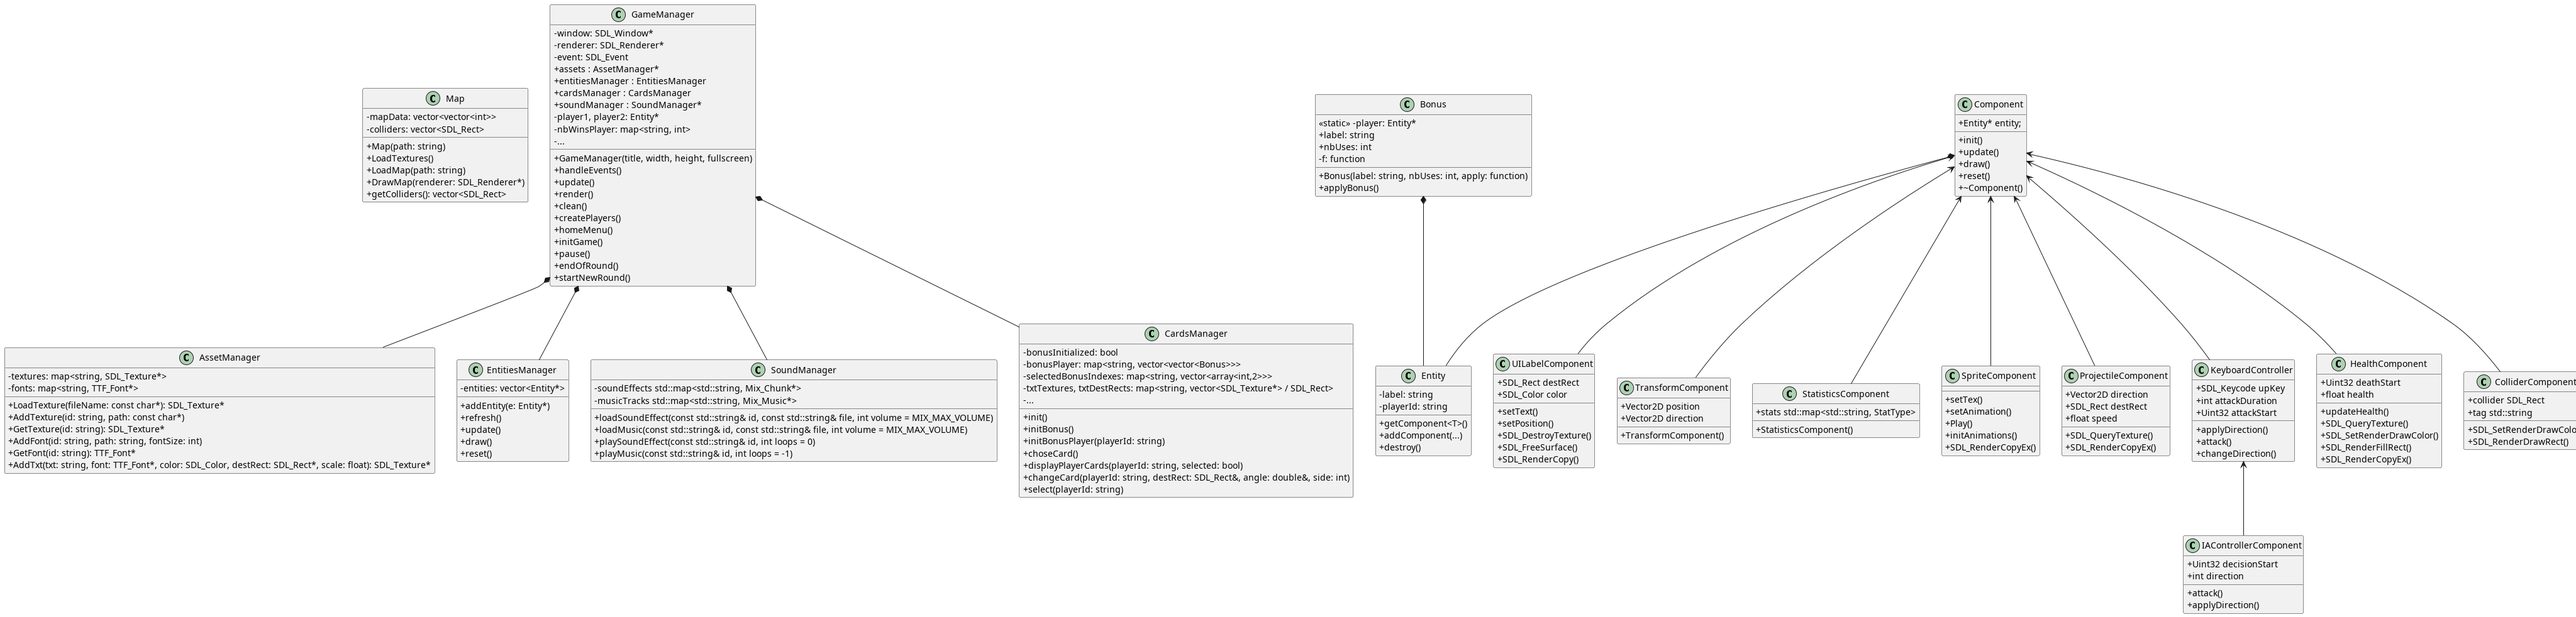
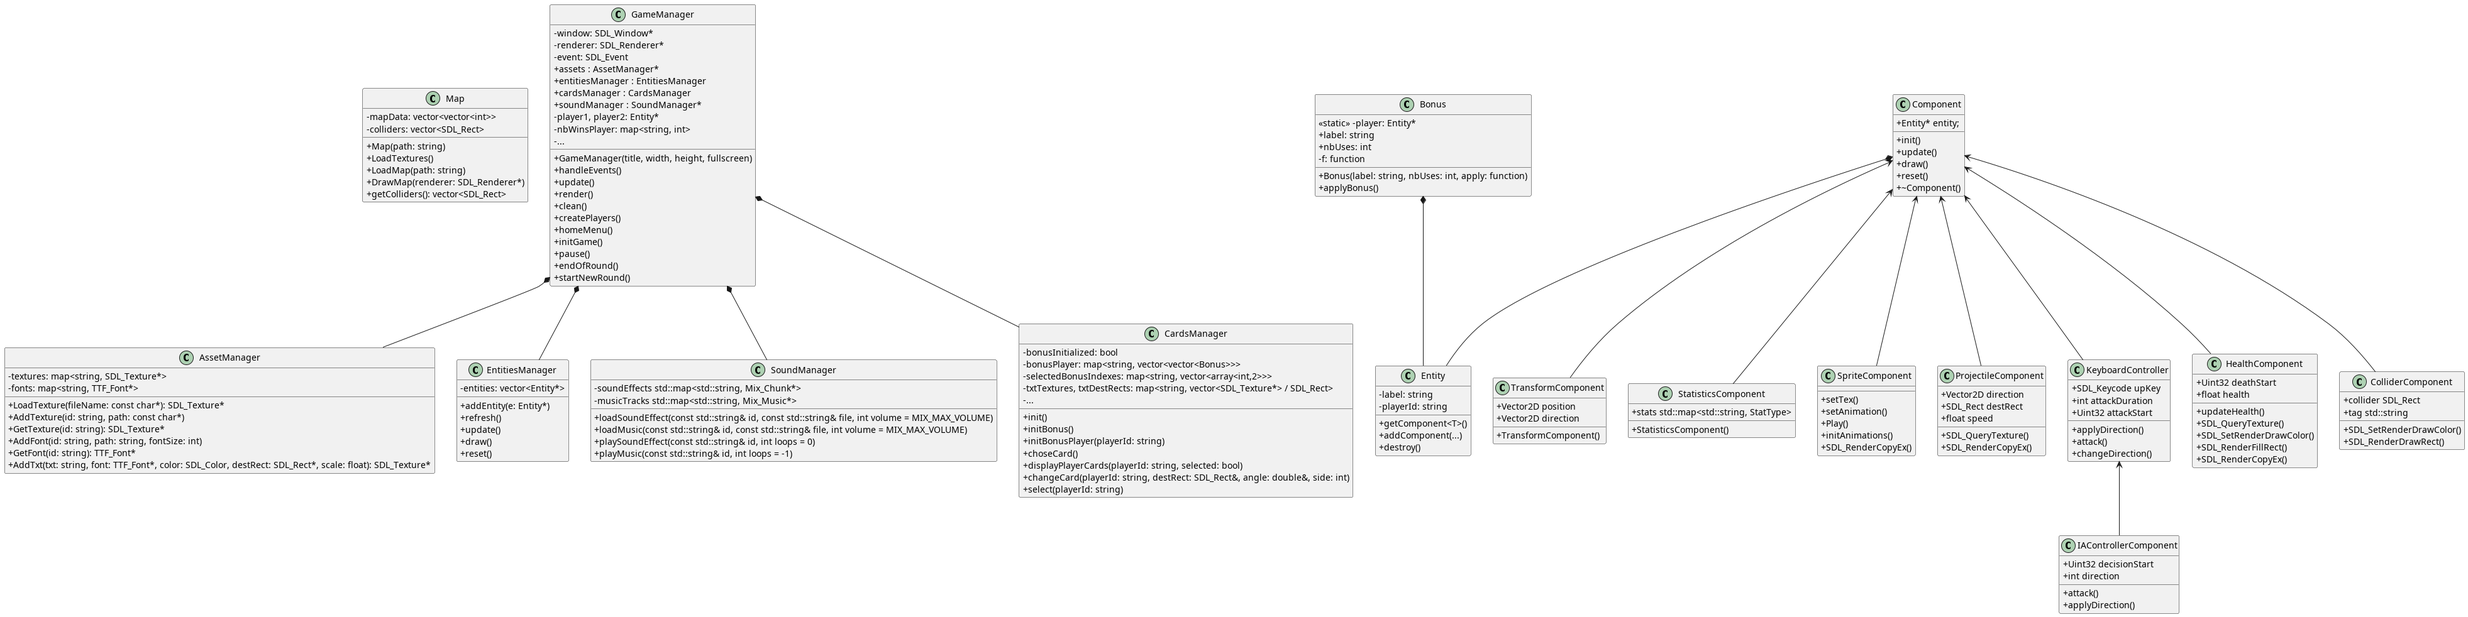
Update diagramme et readme

diff --git a/README.md b/README.md
@@ -7,7 +7,45 @@ Clarence PFISTER
 
 ## Présentation du projet
 
+## Comment jouer ?
 
+Au lancement du jeu, le joueur choisit entre :
+
+- Un mode Joueur vs Joueur (en local, sur un même clavier) ;
+- Un mode Joueur vs IA, où l'adversaire est contrôlé par une intelligence artificielle.
+
+Chaque round se joue en temps réel. À la fin de chaque round, les deux joueurs se voient proposer des cartes d’amélioration aléatoires. Ces cartes permettent de renforcer les caractéristiques de leur personnage pour les prochains rounds (par exemple : vitesse, puissance d’attaque, projectiles, ...).
+
+Commandes :
+
+Joueur contre Joueur :
+
+    Joueur 1 :
+
+        Déplacement : Z (haut), S (bas), Q (gauche), D (droite)
+
+        Attaque : Espace
+
+    Joueur 2 :
+
+        Déplacement : ↑ (haut), ↓ (bas), ← (gauche), → (droite)
+
+        Attaque : M
+
+Joueur contre IA :
+
+    Joueur 1 uniquement :
+
+        Déplacement : Z / Q / S / D
+
+        Attaque : Espace
+
+Choix des cartes d'amélioration :
+
+Lors de la phase d'amélioration entre deux rounds :
+
+- La navigation dans les cartes se fait avec les touches de déplacement (ZQSD ou ↑↓←→ selon le joueur).
+- La validation du choix se fait avec la même touche que pour attaquer (Espace pour le joueur 1, M pour le joueur 2).
 
 ## Installation
 Cloner le dossier :
@@ -46,5 +84,3 @@ Lancer le jeu
 ```
 ./../bin/Game
 ```
-
-## Comment jouer ?
